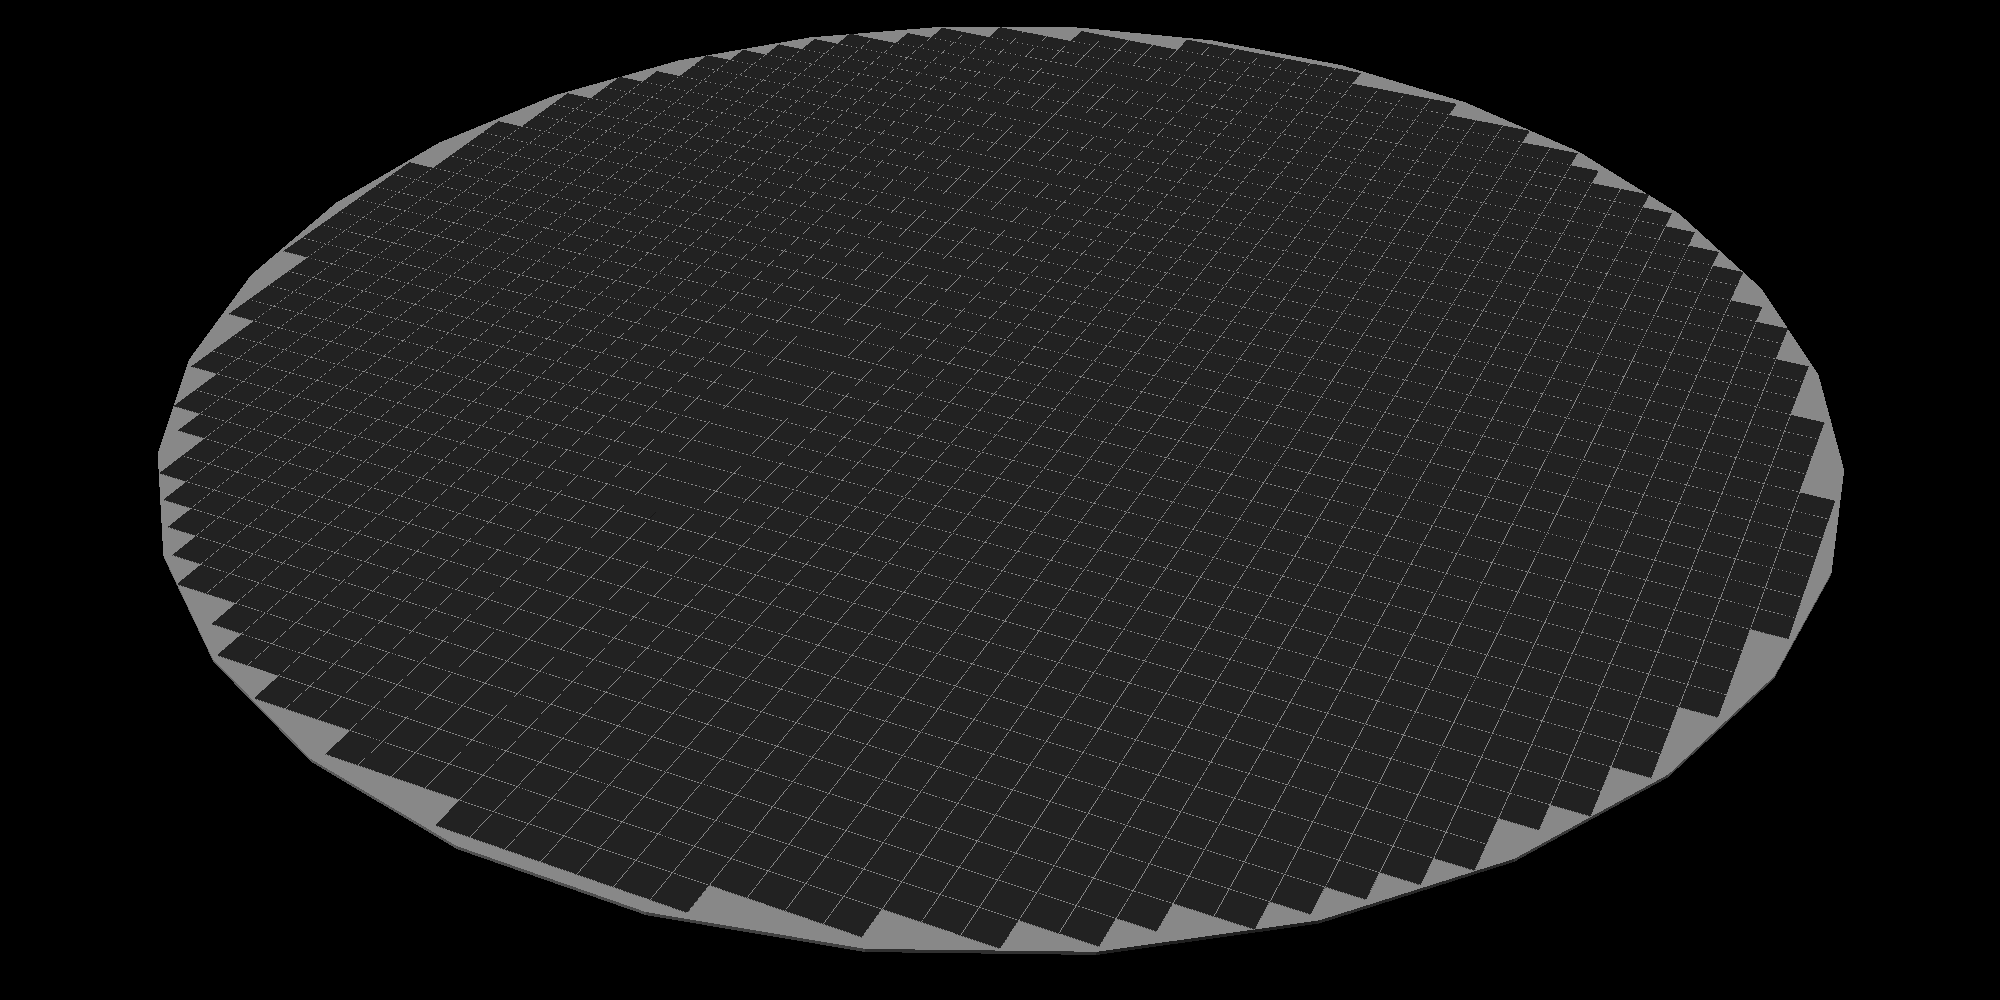
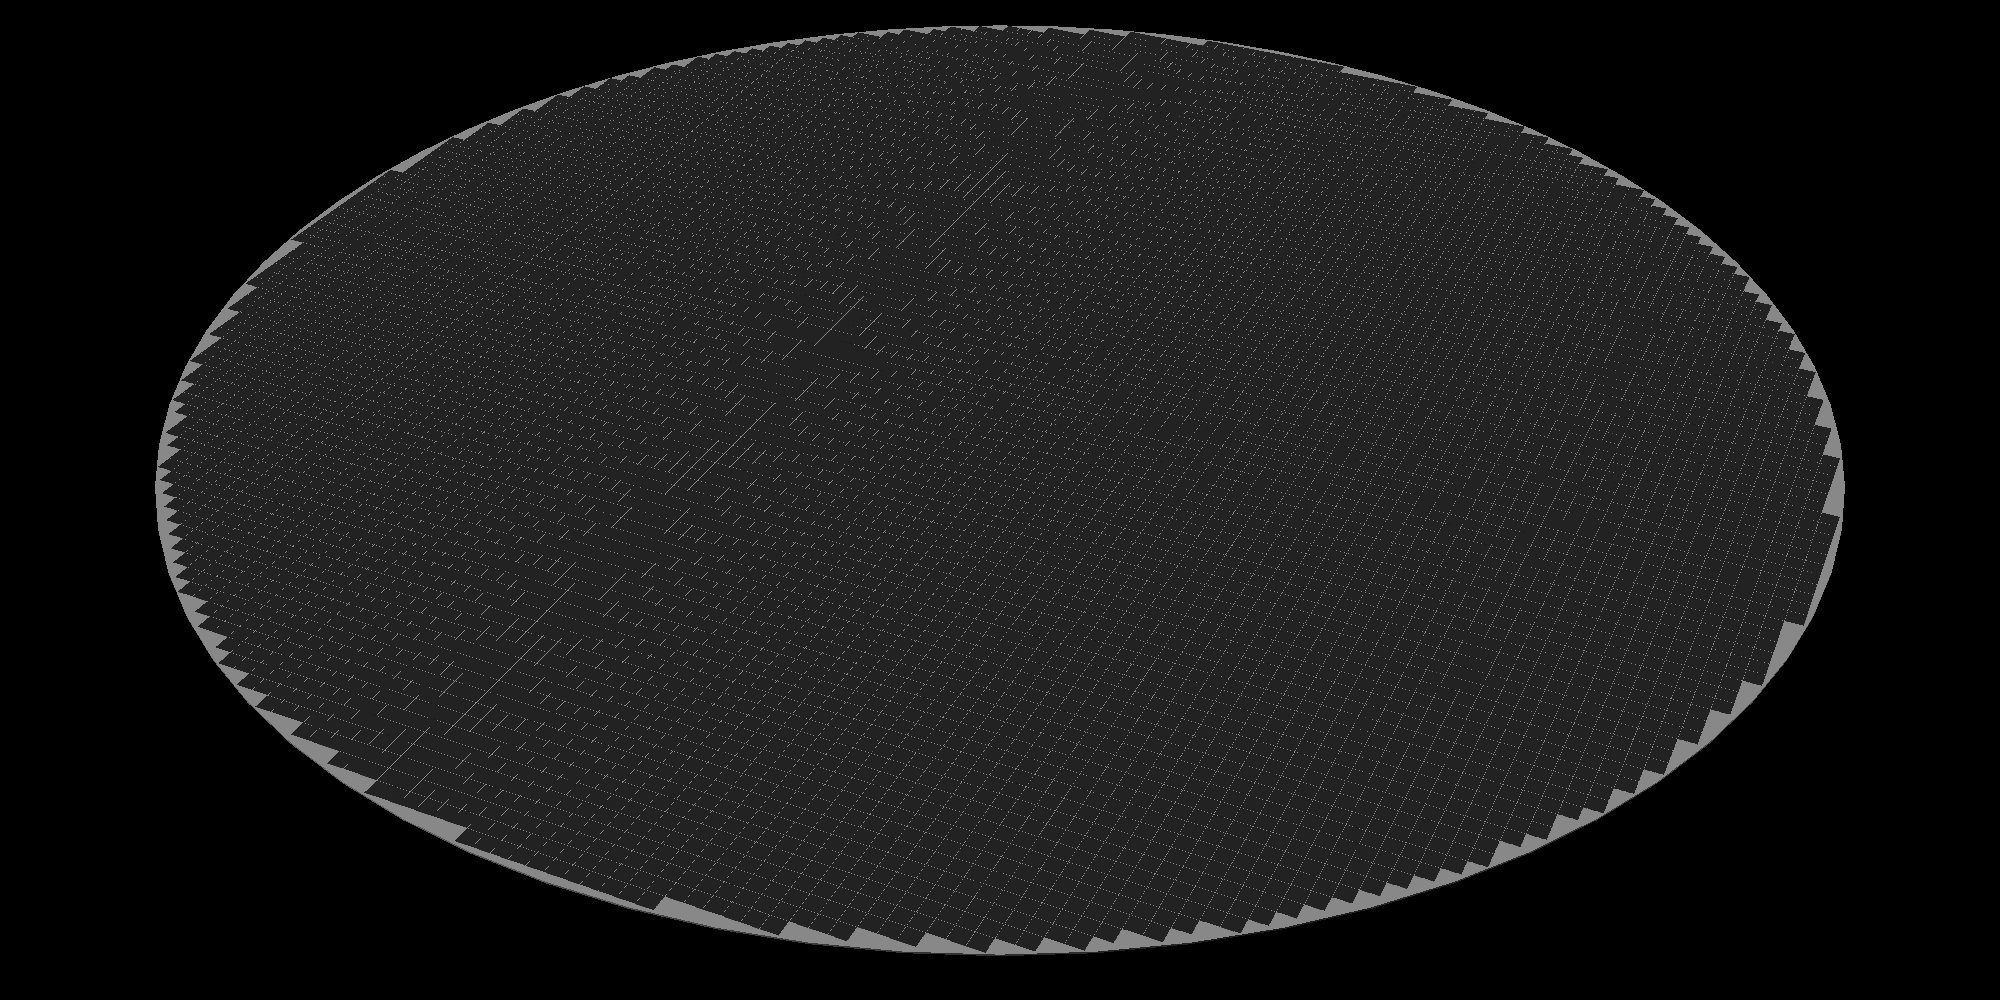
proper count of solar tiles per array
- number of solar tiles per array counted exactly and determined to be just one more tile than the placeholder approximate
- rendered new images and updated the model to fix the array being half as big in radius as it was supposed to be

diff --git a/pages/ftt_GaAs_photovoltaics.html b/pages/ftt_GaAs_photovoltaics.html
@@ -54,8 +54,8 @@ And costs the following:
   <li>2340.162132 MJ energy spent Ion beam printing the photovoltaic cells</li>
   <li>2.340162132 Ms total Ion beam print time for the photovoltaic cells</li>
   -->
-  <li>7444 photovoltaic tiles</li>
-  <!7444 is actually an extrapolated value. I counted the exact number of tiles on the model I made which came out to 1861 and then I noticed I made the model with radius used as the diameter, meaning it was 4 times smaller by area than it should have been>
+  <li>7445 photovoltaic tiles</li>
+  <!7444 was the extrapolated value I put in here as a quick fix. I counted the exact number of tiles on the model I made which came out to 1861 and then I noticed I made the model with radius used as the diameter, meaning it was 4 times smaller by area than it should have been. When I ran a script to count it exactly the number turned out to be 7445, so the extrapolation was only 1 tile too low.>
   <li>Varrying cost of time and energy to weld the structure together and polish the mirror</li>
 </ul>
 The amount of power produced drops off with the square of distance from the sun.
